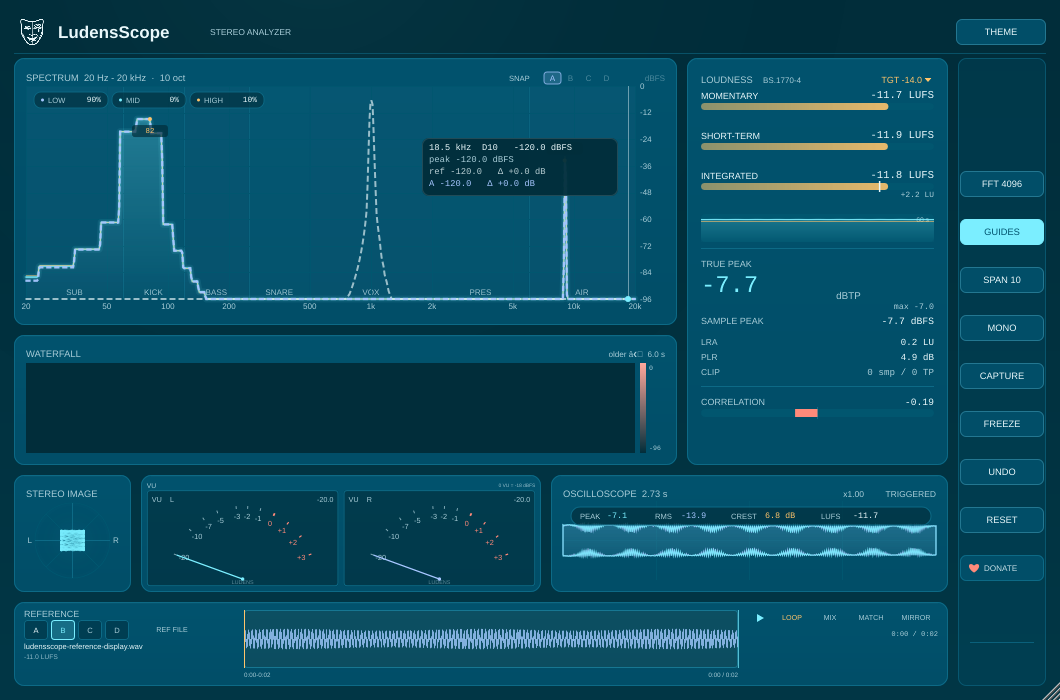
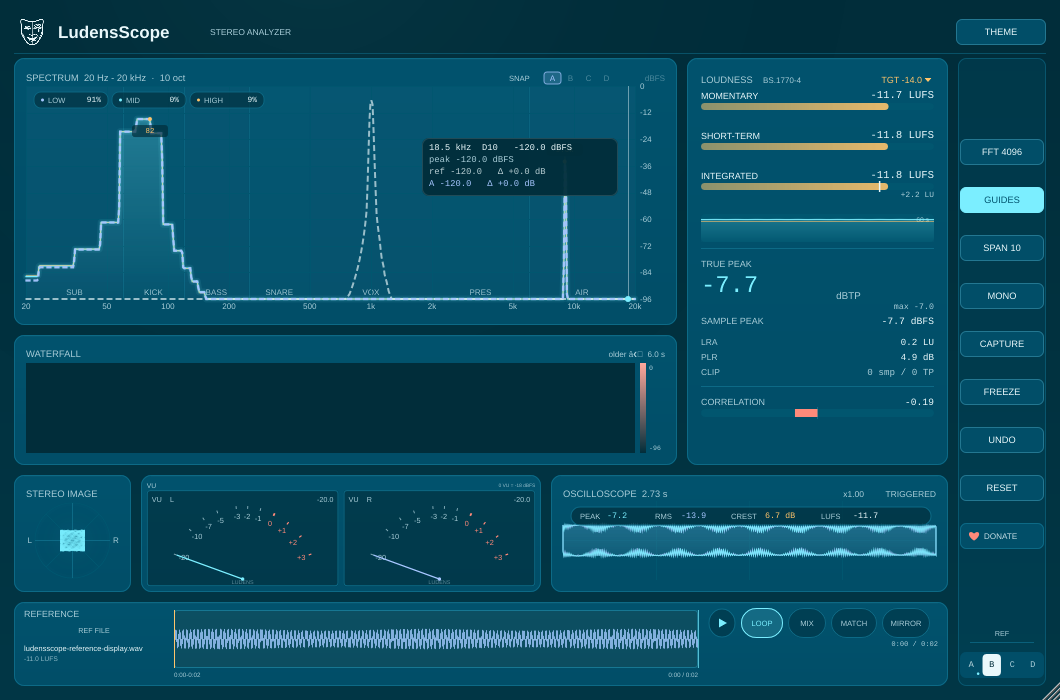
ui: A-D back in the rail, longer waveform, nicer transport
- reference slot buttons return to the bottom of the right rail next
  to the REF caption, as before
- the strip's left block shrinks to 140 px so the reference waveform
  gets more width
- transport is now a round play button plus evenly spaced rounded
  pills (LOOP/MIX/MATCH/MIRROR), slightly larger and with consistent
  spacing; time stays underneath
- REF FILE/name/LUFS no longer overlap in the strip's left block
- tests 3/3; snapshot regenerated

diff --git a/Source/ui/ReferenceStrip.h b/Source/ui/ReferenceStrip.h
@@ -30,7 +30,6 @@ public:
     void setState (State s) { state = std::move (s); repaint(); }
 
     std::function<void()> onPlay, onLoop, onAb, onMatch, onMirror, onRefFile;
-    std::function<void (int)> onSelectSlot;
     std::function<void (double)> onSeek;
     std::function<void (double, double)> onLoopRange;
 
@@ -69,7 +68,6 @@ private:
     State state;
     juce::Rectangle<float> waveArea, playArea, loopArea, abArea, matchArea, mirrorArea;
     juce::Rectangle<float> refFileArea, nameArea;
-    std::array<juce::Rectangle<float>, 4> slotAreas;
 
     bool draggingLoop = false, draggingStart = false, draggingEnd = false;
     double dragAnchor = 0.0;
@@ -78,31 +76,26 @@ private:
 inline void ReferenceStrip::resized()
 {
     auto b = getLocalBounds().toFloat().reduced (10.0f, 6.0f);
-    auto left = b.removeFromLeft (210.0f);
-    auto right = b.removeFromRight (190.0f);
+    auto left = b.removeFromLeft (140.0f);
+    auto right = b.removeFromRight (230.0f);
     auto mid = b.reduced (10.0f, 0.0f);
 
     left.removeFromTop (12.0f);
-    auto tabs = left.removeFromTop (20.0f);
-
-    for (auto& slot : slotAreas)
-    {
-        slot = tabs.removeFromLeft (24.0f);
-        tabs.removeFromLeft (3.0f);
-    }
-
-    tabs.removeFromLeft (4.0f);
-    refFileArea = tabs.removeFromLeft (72.0f);
+    refFileArea = left.removeFromTop (22.0f);
     nameArea = left.removeFromTop (12.0f);
 
     waveArea = mid.withTrimmedTop (2.0f).withTrimmedBottom (12.0f);
 
-    auto row = right.removeFromTop (20.0f);
-    playArea = row.removeFromLeft (24.0f);
-    loopArea = row.removeFromLeft (40.0f);
-    abArea = row.removeFromLeft (36.0f);
+    auto row = right.removeFromTop (30.0f);
+    playArea = row.removeFromLeft (28.0f);
+    row.removeFromLeft (5.0f);
+    loopArea = row.removeFromLeft (42.0f);
+    row.removeFromLeft (5.0f);
+    abArea = row.removeFromLeft (38.0f);
+    row.removeFromLeft (5.0f);
     matchArea = row.removeFromLeft (46.0f);
-    mirrorArea = row.removeFromLeft (44.0f);
+    row.removeFromLeft (5.0f);
+    mirrorArea = row.removeFromLeft (48.0f);
 }
 
 inline void ReferenceStrip::paint (juce::Graphics& g)
@@ -120,26 +113,11 @@ inline void ReferenceStrip::paint (juce::Graphics& g)
     g.setColour (theme::textDim);
     g.drawText ("REFERENCE", caption, juce::Justification::centredLeft);
 
-    for (int i = 0; i < 4; ++i)
-    {
-        const bool active = state.activeSlot == i;
-        const bool filled = state.filled[(size_t) i];
-
-        g.setColour (active ? theme::accent.withAlpha (0.18f) : theme::bg.withAlpha (0.5f));
-        g.fillRoundedRectangle (slotAreas[(size_t) i], 3.0f);
-        g.setColour (active ? theme::accent : theme::panelLine);
-        g.drawRoundedRectangle (slotAreas[(size_t) i].reduced (0.5f), 3.0f, 1.0f);
-        g.setFont (theme::labelFont (8.5f));
-        g.setColour (active ? theme::accent : (filled ? theme::text : theme::textDim));
-        g.drawText (juce::String::charToString ((juce::juce_wchar) ('A' + i)),
-                    slotAreas[(size_t) i], juce::Justification::centred);
-    }
-
     g.setFont (theme::labelFont (8.0f));
     g.setColour (theme::textDim);
     g.drawText ("REF FILE", refFileArea, juce::Justification::centred);
 
-    left.removeFromTop (20.0f); // slot tabs, drawn from slotAreas above
+    left.removeFromTop (22.0f); // ref-file row, drawn from refFileArea above
     auto nameRow = left.removeFromTop (12.0f);
     g.setFont (theme::labelFont (8.5f));
     g.setColour (state.name.isNotEmpty() ? theme::text : theme::textDim);
@@ -214,33 +192,44 @@ inline void ReferenceStrip::paint (juce::Graphics& g)
                     waveArea, juce::Justification::centred);
     }
 
-    // Transport.
-    g.setColour (state.playing ? theme::accent2 : theme::accent);
+    // Transport: a round play button and rounded pills, evenly spaced.
+    g.setColour (state.playing ? theme::accent2 : theme::bg.withAlpha (0.5f));
+    g.fillEllipse (playArea.reduced (1.0f));
+    g.setColour (state.playing ? theme::accent2 : theme::panelLine);
+    g.drawEllipse (playArea.reduced (1.0f), 1.0f);
+
+    g.setColour (state.playing ? theme::bg : theme::accent);
 
     if (state.playing)
     {
-        g.fillRect (playArea.getCentreX() - 3.0f, playArea.getCentreY() - 3.0f, 6.0f, 6.0f);
+        g.fillRect (playArea.getCentreX() - 3.5f, playArea.getCentreY() - 3.5f, 7.0f, 7.0f);
     }
     else
     {
         juce::Path triangle;
-        triangle.addTriangle (playArea.getCentreX() - 3.0f, playArea.getCentreY() - 4.0f,
-                              playArea.getCentreX() - 3.0f, playArea.getCentreY() + 4.0f,
-                              playArea.getCentreX() + 4.0f, playArea.getCentreY());
+        triangle.addTriangle (playArea.getCentreX() - 3.0f, playArea.getCentreY() - 4.5f,
+                              playArea.getCentreX() - 3.0f, playArea.getCentreY() + 4.5f,
+                              playArea.getCentreX() + 5.0f, playArea.getCentreY());
         g.fillPath (triangle);
     }
 
-    g.setFont (theme::labelFont (8.0f));
-    g.setColour (state.looping ? theme::accent2 : theme::textDim);
-    g.drawText ("LOOP", loopArea, juce::Justification::centred);
-    g.setColour (state.audible ? theme::accent : theme::textDim);
-    g.drawText (state.audible ? "REF" : "MIX", abArea, juce::Justification::centred);
-    g.setColour (state.match ? theme::accent2 : theme::textDim);
-    g.drawText ("MATCH", matchArea, juce::Justification::centred);
-    g.setColour (state.mirror ? theme::accent : theme::textDim);
-    g.drawText ("MIRROR", mirrorArea, juce::Justification::centred);
+    const auto pill = [&] (juce::Rectangle<float> r, bool on, const juce::String& text)
+    {
+        g.setColour (on ? theme::accent.withAlpha (0.16f) : theme::bg.withAlpha (0.5f));
+        g.fillRoundedRectangle (r, r.getHeight() * 0.5f);
+        g.setColour (on ? theme::accent : theme::panelLine);
+        g.drawRoundedRectangle (r.reduced (0.5f), r.getHeight() * 0.5f, 1.0f);
+        g.setFont (theme::labelFont (8.5f));
+        g.setColour (on ? theme::accent : theme::textDim);
+        g.drawText (text, r, juce::Justification::centred);
+    };
 
-    right.removeFromTop (20.0f); // transport row, drawn from the areas above
+    pill (loopArea, state.looping, "LOOP");
+    pill (abArea, state.audible, state.audible ? "REF" : "MIX");
+    pill (matchArea, state.match, "MATCH");
+    pill (mirrorArea, state.mirror, "MIRROR");
+
+    right.removeFromTop (30.0f); // transport row, drawn from the areas above
     g.setFont (theme::monoFont (8.0f));
     g.setColour (theme::textDim);
     g.drawText (state.duration > 0.0
@@ -252,15 +241,6 @@ inline void ReferenceStrip::paint (juce::Graphics& g)
 inline void ReferenceStrip::mouseDown (const juce::MouseEvent& e)
 {
     const auto p = e.position;
-
-    for (int i = 0; i < 4; ++i)
-        if (slotAreas[(size_t) i].contains (p))
-        {
-            if (onSelectSlot)
-                onSelectSlot (i);
-
-            return;
-        }
 
     if (refFileArea.contains (p)) { if (onRefFile) onRefFile(); return; }
     if (playArea.contains (p))    { if (onPlay) onPlay(); return; }

diff --git a/Source/PluginEditor.cpp b/Source/PluginEditor.cpp
@@ -220,7 +220,6 @@ LudensScopeEditor::LudensScopeEditor (LudensScopeProcessor& p)
     referenceStrip.onMatch = [this] { toggleLevelMatch(); };
     referenceStrip.onMirror = [this] { toggleMirror(); };
     referenceStrip.onRefFile = [this] { chooseReferenceFile(); };
-    referenceStrip.onSelectSlot = [this] (int slot) { selectReferenceSlot (slot); };
     referenceStrip.onSeek = [this] (double seconds)
     {
         processor.setReferencePositionSeconds (seconds);
@@ -229,6 +228,10 @@ LudensScopeEditor::LudensScopeEditor (LudensScopeProcessor& p)
     {
         processor.setReferenceLoopRange (start, end);
     };
+
+    addAndMakeVisible (slotSwitch);
+    slotSwitch.setTooltip ("Reference slots A-D");
+    slotSwitch.onSelect = [this] (int slot) { selectReferenceSlot (slot); };
 
     themeButton.setTooltip ("Interface colour theme");
     themeButton.onClick = [this] { showThemeMenu(); };
@@ -401,7 +404,7 @@ void LudensScopeEditor::paint (juce::Graphics& g)
         g.fillRect (railBounds.getX() + 12, rowTop - 10, railBounds.getWidth() - 24, 1);
         g.setFont (theme::labelFont (juce::jlimit (7.0f, 10.0f, 8.0f * uiScale)));
         g.setColour (theme::textDim);
-        g.drawText ("", railBounds.getX(), rowTop - 24, railBounds.getWidth(), 12,
+        g.drawText ("REF", railBounds.getX(), rowTop - 24, railBounds.getWidth(), 12,
                     juce::Justification::centred);
     }
 
@@ -465,7 +468,11 @@ void LudensScopeEditor::resized()
     auto rail = railBounds.withTrimmedLeft (2).withTrimmedRight (2)
                           .withTrimmedTop (juce::roundToInt (8.0f * uiScale));
     const int buttonHeight = juce::roundToInt (26.0f * uiScale);
-    const int available = juce::jmax (0, rail.getHeight());
+    const int refRowHeight = buttonHeight;
+    const int refMargin = juce::roundToInt (8.0f * uiScale);
+    const int refCaption = juce::roundToInt (30.0f * uiScale);
+    const int refTop = railBounds.getBottom() - refMargin - refRowHeight - refCaption;
+    const int available = juce::jmax (0, refTop - rail.getY());
     const int minGap = juce::roundToInt (6.0f * uiScale);
     const int maxGap = juce::roundToInt (22.0f * uiScale);
     const int buttonGap = juce::jlimit (minGap, juce::jmax (minGap, maxGap),
@@ -485,6 +492,11 @@ void LudensScopeEditor::resized()
         button->setBounds (stack.removeFromTop (buttonHeight));
         stack.removeFromTop (buttonGap);
     }
+
+    slotSwitch.setBounds (railBounds.getX() + juce::roundToInt (2.0f * uiScale),
+                          railBounds.getBottom() - refMargin - refRowHeight,
+                          railBounds.getWidth() - juce::roundToInt (4.0f * uiScale),
+                          refRowHeight);
 
     const int gap = juce::roundToInt (10.0f * uiScale);
     const int stripHeight = juce::jlimit (64, 100, juce::roundToInt (84.0f * uiScale));
@@ -620,6 +632,12 @@ void LudensScopeEditor::timerCallback()
                           ? juce::File (referencePath).getFileName() : juce::String();
     stripState.lufs = processor.referenceLufs();
     referenceStrip.setState (std::move (stripState));
+
+    slotSwitch.setState (processor.getActiveReferenceSlot(),
+                         processor.isReferenceSlotFilled (0),
+                         processor.isReferenceSlotFilled (1),
+                         processor.isReferenceSlotFilled (2),
+                         processor.isReferenceSlotFilled (3));
 
     spectrumView.setReferenceModes (levelMatch, mirror);
 
@@ -1874,6 +1892,11 @@ void LudensScopeEditor::selectReferenceSlot (int slot)
 
     processor.switchReferenceSlot (slot);
     applyReferenceSettings();
+    slotSwitch.setState (processor.getActiveReferenceSlot(),
+                         processor.isReferenceSlotFilled (0),
+                         processor.isReferenceSlotFilled (1),
+                         processor.isReferenceSlotFilled (2),
+                         processor.isReferenceSlotFilled (3));
 }
 
 void LudensScopeEditor::applyReferenceSettings()

diff --git a/Source/PluginEditor.h b/Source/PluginEditor.h
@@ -149,6 +149,7 @@ private:
     DonateButton donateButton;
     juce::TextButton themeButton { "THEME" };
     ReferenceStrip referenceStrip;
+    ReferenceSlotSwitch slotSwitch;
     juce::Image logoImage;
     juce::Image logoSource;
     juce::Rectangle<int> railBounds;
